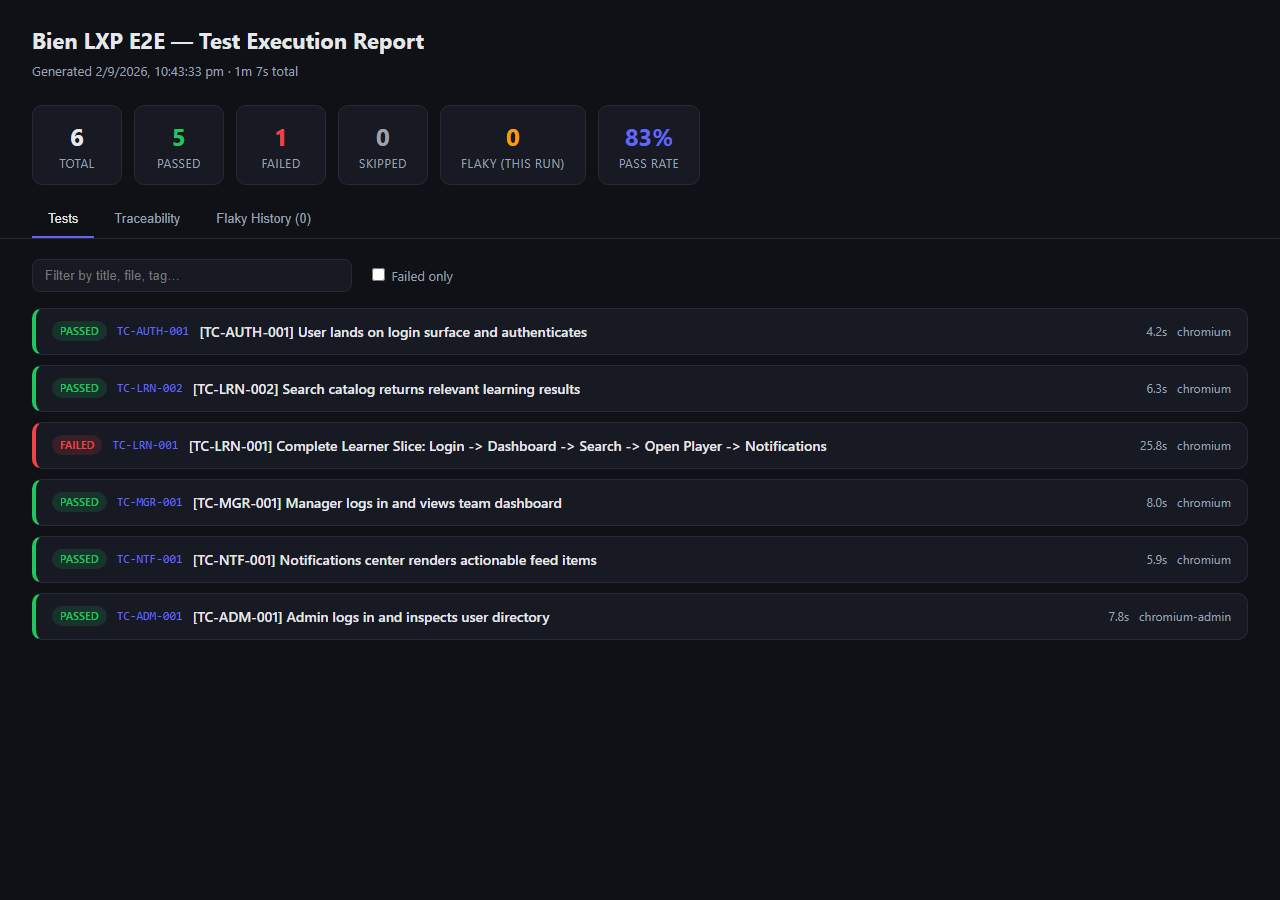
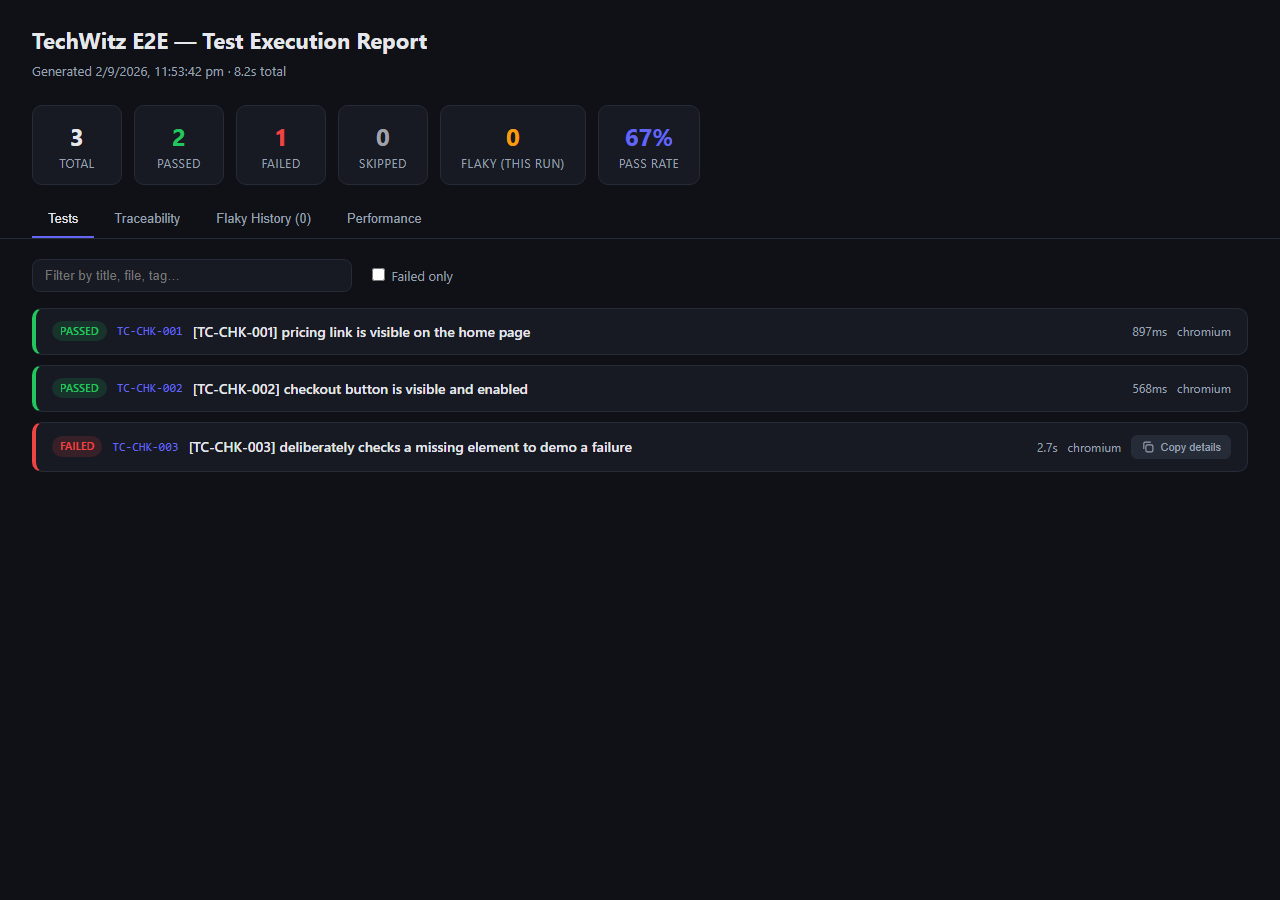
feat(config,ai-insights): cross-browser/device test matrix + decouple AI credentials
Add expandProjectsAcrossDevices() (src/config/DeviceMatrix.ts) - fans a small
set of base Playwright projects out across extra browser engines
(firefox/webkit) and/or named device profiles (mobile, tablet, etc.) via
opt-in options, so a plain `playwright test` run stays unchanged unless the
consumer explicitly asks for the wider matrix. Individual generated projects
are targetable directly with Playwright's own --project flag.

Remove all process.env reads for AI-vendor credentials (GEMINI_API_KEY,
OPENAI_API_KEY, ANTHROPIC_API_KEY, OLLAMA_HOST, OLLAMA_MODEL) from the
provider classes and AiFailureAnalyzer - the framework must not own
vendor-specific env var conventions. AiFailureAnalyzer now takes an explicit
AiProviderOptions (apiKey/ollamaHost/ollamaModel), and AiHtmlReporterOptions
gains aiApiKey/aiOllamaHost/aiOllamaModel so the consuming application
resolves its own credential (env var, secrets file, whatever it already
uses) and passes the value in.

README updated: new cross-browser/device-matrix section, corrected AI
credential wiring guidance, documentation for the page-URL/breadcrumb/
copy-details failed-card fields, and fresh screenshots generated against a
synthetic demo app (no real product branding, confirmed via grep - zero
Bien/LXP references anywhere in this repo's source, docs, or screenshots).

diff --git a/src/config/DeviceMatrix.ts b/src/config/DeviceMatrix.ts
@@ -1,0 +1,98 @@
+import { devices, type Project } from '@playwright/test';
+
+export type BrowserEngine = 'chromium' | 'firefox' | 'webkit';
+
+/** A project definition before device/browser expansion — same shape Playwright's own
+ * `projects` array entries take (`name` + `use`, plus whatever else you pass through, e.g.
+ * `grep`/`grepInvert`/`testMatch`/`dependencies`). */
+export interface BaseProjectDefinition extends Omit<Project, 'name' | 'use'> {
+  name: string;
+  use: Project['use'];
+}
+
+export interface DeviceMatrixOptions {
+  /**
+   * Extra browser engines to fan each base project out across, beyond whatever engine the base
+   * project itself already uses. E.g. `['firefox', 'webkit']` turns one `chromium` project into
+   * three: the original plus `<name>-firefox` and `<name>-webkit`.
+   */
+  browsers?: BrowserEngine[];
+  /**
+   * Extra named Playwright device descriptors (any key from `@playwright/test`'s `devices`
+   * export, e.g. `'iPhone 14'`, `'Pixel 7'`, `'iPad Pro 11'`) to fan each base project out
+   * across for responsive/mobile coverage. Unknown device names are skipped, not thrown on —
+   * a typo shouldn't take down the whole config.
+   */
+  devices?: string[];
+}
+
+const ENGINE_DEVICE_PROFILE: Record<BrowserEngine, string> = {
+  chromium: 'Desktop Chrome',
+  firefox: 'Desktop Firefox',
+  webkit: 'Desktop Safari',
+};
+
+/**
+ * Expands a small set of "real" projects (one per app/base-URL/tag-filter you actually need)
+ * into the full cross-browser + responsive/device matrix, without hand-duplicating every
+ * project definition. Nothing is expanded unless you actually pass `browsers`/`devices` — call
+ * it with an empty options object (or don't call it at all) and you get your base projects back
+ * unchanged, so wiring this in never silently multiplies a fast local run into a slow one.
+ *
+ * ```ts
+ * import { expandProjectsAcrossDevices } from '@open-test/playwright-core';
+ *
+ * const extraBrowsers = (process.env.E2E_BROWSERS ?? '').split(',').filter(Boolean) as BrowserEngine[];
+ * const extraDevices = (process.env.E2E_DEVICES ?? '').split(',').filter(Boolean);
+ *
+ * export default defineConfig({
+ *   projects: expandProjectsAcrossDevices(
+ *     [{ name: 'chromium', use: { ...devices['Desktop Chrome'], baseURL } }],
+ *     { browsers: extraBrowsers, devices: extraDevices },
+ *   ),
+ * });
+ * ```
+ *
+ * Run the default fast set with `playwright test`, the full cross-browser grid with
+ * `E2E_BROWSERS=firefox,webkit playwright test`, mobile/responsive coverage with
+ * `E2E_DEVICES="iPhone 14,Pixel 7" playwright test`, or one specific generated project with
+ * Playwright's own `--project=chromium-webkit` / `--project=chromium-iphone-14` flag.
+ */
+export function expandProjectsAcrossDevices(
+  baseProjects: BaseProjectDefinition[],
+  options: DeviceMatrixOptions = {},
+): Project[] {
+  const browsers = options.browsers ?? [];
+  const deviceNames = options.devices ?? [];
+  const expanded: Project[] = [];
+
+  for (const base of baseProjects) {
+    expanded.push(base as Project);
+
+    for (const engine of browsers) {
+      const profile = devices[ENGINE_DEVICE_PROFILE[engine]];
+      if (!profile) continue;
+      expanded.push({
+        ...base,
+        name: `${base.name}-${engine}`,
+        use: { ...base.use, ...profile },
+      });
+    }
+
+    for (const deviceName of deviceNames) {
+      const profile = devices[deviceName];
+      if (!profile) continue;
+      expanded.push({
+        ...base,
+        name: `${base.name}-${slugifyDeviceName(deviceName)}`,
+        use: { ...base.use, ...profile },
+      });
+    }
+  }
+
+  return expanded;
+}
+
+function slugifyDeviceName(value: string): string {
+  return value.toLowerCase().replace(/[^a-z0-9]+/g, '-').replace(/(^-|-$)/g, '');
+}

diff --git a/src/ai-insights/AiFailureAnalyzer.ts b/src/ai-insights/AiFailureAnalyzer.ts
@@ -9,6 +9,20 @@ import { PiiRedactor } from '../forensics/PiiRedactor.js';
 
 export type AiProviderName = 'gemini' | 'openai' | 'ollama' | 'claude' | 'none';
 
+export interface AiProviderOptions {
+  /**
+   * API key for the selected provider (gemini/openai/claude). The framework never reads any
+   * AI-vendor env var or secrets file itself — read your own `GEMINI_API_KEY` /
+   * `OPENAI_API_KEY` / `ANTHROPIC_API_KEY` (or whatever your application calls it, from an env
+   * var or a secrets file) in your own config and pass the resolved value here.
+   */
+  apiKey?: string;
+  /** Ollama server URL. Defaults to `http://127.0.0.1:11434` if not given. */
+  ollamaHost?: string;
+  /** Ollama model name. Defaults to `llama3` if not given. */
+  ollamaModel?: string;
+}
+
 export class AiFailureAnalyzer {
   private provider: ILlmProvider;
   readonly providerName: AiProviderName;
@@ -18,22 +32,24 @@ export class AiFailureAnalyzer {
    * Ollama, real local compute). The default here is `'none'`, which resolves to a
    * `NoOpProvider` that throws loudly if `analyze()` is ever actually called on it, rather
    * than silently making a paid call to whichever provider happened to be hardcoded as a
-   * "convenient" default.
+   * "convenient" default. Credentials (`options.apiKey`, etc.) are never read from process.env
+   * by this class — the consuming application resolves them from its own env var or secrets
+   * file and passes the resolved value in.
    */
-  constructor(providerName: AiProviderName = 'none') {
+  constructor(providerName: AiProviderName = 'none', options: AiProviderOptions = {}) {
     this.providerName = providerName;
     switch (providerName) {
       case 'gemini':
-        this.provider = new GeminiProvider();
+        this.provider = new GeminiProvider(options.apiKey);
         break;
       case 'openai':
-        this.provider = new OpenAiProvider();
+        this.provider = new OpenAiProvider(options.apiKey);
         break;
       case 'ollama':
-        this.provider = new OllamaProvider();
+        this.provider = new OllamaProvider(options.ollamaHost, options.ollamaModel);
         break;
       case 'claude':
-        this.provider = new ClaudeProvider();
+        this.provider = new ClaudeProvider(options.apiKey);
         break;
       case 'none':
       default:

diff --git a/src/reporting/AiHtmlReporter.ts b/src/reporting/AiHtmlReporter.ts
@@ -9,6 +9,7 @@ import type {
   FullResult,
 } from '@playwright/test/reporter';
 import { AiFailureAnalyzer, type AiProviderName } from '../ai-insights/AiFailureAnalyzer.js';
+import type { AiProviderOptions } from '../ai-insights/AiFailureAnalyzer.js';
 import type { AiAnalysisResult } from '../ai-insights/types.js';
 import type { DiagnosticTelemetry } from '../forensics/types.js';
 import { PiiRedactor } from '../forensics/PiiRedactor.js';
@@ -35,6 +36,20 @@ export interface AiHtmlReporterOptions {
    * never makes silent paid API calls).
    */
   aiProvider?: AiReportProvider;
+  /**
+   * API key for the selected `aiProvider` (gemini/openai/claude). This reporter never reads
+   * `GEMINI_API_KEY`/`OPENAI_API_KEY`/`ANTHROPIC_API_KEY` or any other AI-vendor env var (or
+   * secrets file) itself — resolve the credential from your own application's env var or
+   * secrets file and pass the value here. Not needed for `aiProvider: 'none'`/`'ollama'`.
+   */
+  aiApiKey?: string;
+  /** Ollama server URL, only used when `aiProvider: 'ollama'`. Defaults to
+   * `http://127.0.0.1:11434` if not given — read your own env var/config and pass it here if
+   * you need a different host. */
+  aiOllamaHost?: string;
+  /** Ollama model name, only used when `aiProvider: 'ollama'`. Defaults to `llama3` if not
+   * given. */
+  aiOllamaModel?: string;
   /**
    * Title shown in the report header. Defaults to `process.env.AI_REPORT_PROJECT_TITLE`, or
    * 'TechWitz E2E — Test Execution Report' if that's unset — the consuming project should set
@@ -159,7 +174,12 @@ export class AiHtmlReporter implements Reporter {
     // to 'none' above, and the analyzer is only ever constructed when a real provider was
     // explicitly named — no code path here can silently start making AI calls.
     if (aiProvider !== 'none') {
-      this.analyzer = new AiFailureAnalyzer(aiProvider);
+      const providerOptions: AiProviderOptions = {
+        apiKey: options.aiApiKey,
+        ollamaHost: options.aiOllamaHost,
+        ollamaModel: options.aiOllamaModel,
+      };
+      this.analyzer = new AiFailureAnalyzer(aiProvider, providerOptions);
     }
 
     FlakyQuarantineManager.configure(

diff --git a/src/ai-insights/providers/OllamaProvider.ts b/src/ai-insights/providers/OllamaProvider.ts
@@ -4,9 +4,16 @@ import { FailureClassifier } from '../FailureClassifier.js';
 import { BugTicketGenerator } from '../BugTicketGenerator.js';
 
 export class OllamaProvider implements ILlmProvider {
+  /**
+   * `hostUrl`/`model` must be passed in explicitly by the consuming application if you want
+   * anything other than these generic local defaults — this framework never reads an
+   * `OLLAMA_HOST`/`OLLAMA_MODEL` env var (or any config file) itself. Read your own env var in
+   * your own config and pass the value through `AiHtmlReporterOptions.aiOllamaHost`/
+   * `aiOllamaModel` / `AiFailureAnalyzer`'s constructor.
+   */
   constructor(
-    private readonly hostUrl = process.env.OLLAMA_HOST ?? 'http://127.0.0.1:11434',
-    private readonly model = process.env.OLLAMA_MODEL ?? 'llama3',
+    private readonly hostUrl = 'http://127.0.0.1:11434',
+    private readonly model = 'llama3',
   ) {}
 
   async analyzeFailure(

diff --git a/src/ai-insights/providers/ClaudeProvider.ts b/src/ai-insights/providers/ClaudeProvider.ts
@@ -4,7 +4,13 @@ import { FailureClassifier } from '../FailureClassifier.js';
 import { BugTicketGenerator } from '../BugTicketGenerator.js';
 
 export class ClaudeProvider implements ILlmProvider {
-  constructor(private readonly apiKey = process.env.ANTHROPIC_API_KEY) {}
+  /**
+   * `apiKey` must be passed in explicitly by the consuming application — this framework never
+   * reads any AI-vendor env var (or secrets file) itself. Read your own `ANTHROPIC_API_KEY` (or
+   * whatever your app calls it) in your own config and pass the value through
+   * `AiHtmlReporterOptions.aiApiKey` / `AiFailureAnalyzer`'s constructor.
+   */
+  constructor(private readonly apiKey?: string) {}
 
   async analyzeFailure(
     telemetry: DiagnosticTelemetry,

diff --git a/src/ai-insights/providers/GeminiProvider.ts b/src/ai-insights/providers/GeminiProvider.ts
@@ -4,7 +4,13 @@ import { FailureClassifier } from '../FailureClassifier.js';
 import { BugTicketGenerator } from '../BugTicketGenerator.js';
 
 export class GeminiProvider implements ILlmProvider {
-  constructor(private readonly apiKey = process.env.GEMINI_API_KEY) {}
+  /**
+   * `apiKey` must be passed in explicitly by the consuming application — this framework never
+   * reads any AI-vendor env var (or secrets file) itself. Read your own `GEMINI_API_KEY` (or
+   * whatever your app calls it) in your own config and pass the value through
+   * `AiHtmlReporterOptions.aiApiKey` / `AiFailureAnalyzer`'s constructor.
+   */
+  constructor(private readonly apiKey?: string) {}
 
   async analyzeFailure(
     telemetry: DiagnosticTelemetry,

diff --git a/src/ai-insights/providers/OpenAiProvider.ts b/src/ai-insights/providers/OpenAiProvider.ts
@@ -4,7 +4,13 @@ import { FailureClassifier } from '../FailureClassifier.js';
 import { BugTicketGenerator } from '../BugTicketGenerator.js';
 
 export class OpenAiProvider implements ILlmProvider {
-  constructor(private readonly apiKey = process.env.OPENAI_API_KEY) {}
+  /**
+   * `apiKey` must be passed in explicitly by the consuming application — this framework never
+   * reads any AI-vendor env var (or secrets file) itself. Read your own `OPENAI_API_KEY` (or
+   * whatever your app calls it) in your own config and pass the value through
+   * `AiHtmlReporterOptions.aiApiKey` / `AiFailureAnalyzer`'s constructor.
+   */
+  constructor(private readonly apiKey?: string) {}
 
   async analyzeFailure(
     telemetry: DiagnosticTelemetry,

diff --git a/src/config/index.ts b/src/config/index.ts
@@ -1,2 +1,3 @@
 export { EnvConfig, ConfigLoader } from './ConfigLoader.js';
 export * from './types.js';
+export * from './DeviceMatrix.js';

diff --git a/README.md b/README.md
@@ -77,9 +77,32 @@ opt-in, using your own LLM API key — adds a root-cause summary and suggested f
 ![Dashboard: pass/fail counts, pass rate, and a filterable/searchable test list](./docs/screenshots/dashboard.png)
 
 Click any test to expand it in place — real screenshot thumbnail, embedded video player, a
-downloadable trace, and the full (ANSI-stripped, PII-redacted) error and stack trace:
+downloadable trace, the full (ANSI-stripped, PII-redacted) error and stack trace, the **page URL
+at the moment of failure**, and a color-coded **breadcrumb trail** (console errors/warnings,
+uncaught page errors, failed requests, and 4xx/5xx responses in the run-up to the failure) — plus
+a one-click **Copy details** button that puts a plain-text summary of all of it on your clipboard,
+ready to paste into a bug report or a chat message:
 
-![Expanded failed-test card with screenshot, video player, and error detail](./docs/screenshots/failed-test-detail.png)
+![Expanded failed-test card with screenshot, video player, page URL, breadcrumb trail, and a copy-details button](./docs/screenshots/failed-test-detail.png)
+
+The page URL and breadcrumb trail come from `captureFailureDiagnostics()` — wire it in as an
+auto-fixture and it silently attaches this data to any non-passing test, with nothing to opt into
+per test:
+
+```ts
+// fixtures.ts
+import { test as base } from '@playwright/test';
+import { captureFailureDiagnostics } from '@open-test/playwright-core';
+
+export const test = base.extend<{ _diagnosticsCapture: void }>({
+  _diagnosticsCapture: [
+    async ({ page }, use, testInfo) => {
+      await captureFailureDiagnostics(page, testInfo, async () => { await use(); });
+    },
+    { auto: true },
+  ],
+});
+```
 
 A **Traceability** tab turns the `[TC-XXX-001]` convention already used throughout your specs
 into a live matrix — test ID, title, source file, tags, and pass/fail status, all in one sortable
@@ -177,10 +200,26 @@ reporter: [['list'], ['./reporters/aiHtmlReporter.ts', { aiProvider: process.env
   to set one. No API call happens unless `aiProvider` is explicitly set (or the
   `AI_REPORT_PROVIDER` env var is). A report with `aiProvider` unset is still the full dashboard
   above — traceability, thumbnails, video, flaky history, performance — just without the AI panel.
-- **Bring your own key.** `AiFailureAnalyzer` already supports Gemini, OpenAI, Claude, and a fully
-  local Ollama provider (zero external calls, zero cost) — see [`ai-insights/`](./src/ai-insights).
-  Configure whichever one your team already has access to via that provider's own env vars (see
-  each provider file for its exact variable name).
+- **Bring your own key — and your own env var name.** `AiFailureAnalyzer` already supports Gemini,
+  OpenAI, Claude, and a fully local Ollama provider (zero external calls, zero cost) — see
+  [`ai-insights/`](./src/ai-insights). The framework itself never reads `GEMINI_API_KEY`/
+  `OPENAI_API_KEY`/`ANTHROPIC_API_KEY`/`OLLAMA_HOST` or any other AI-vendor env var (or secrets
+  file) — that's your application's decision, not the framework's. Resolve the credential however
+  your app already does (an env var, a secrets manager, a `.env` file) and pass the resolved value
+  through `aiApiKey` (and `aiOllamaHost`/`aiOllamaModel` for Ollama):
+  ```ts
+  [
+    './reporters/aiHtmlReporter.ts',
+    {
+      aiProvider: process.env.AI_REPORT_PROVIDER,
+      aiApiKey:
+        process.env.AI_REPORT_PROVIDER === 'claude' ? process.env.ANTHROPIC_API_KEY :
+        process.env.AI_REPORT_PROVIDER === 'gemini' ? process.env.GEMINI_API_KEY :
+        process.env.AI_REPORT_PROVIDER === 'openai' ? process.env.OPENAI_API_KEY :
+        undefined,
+    },
+  ]
+  ```
 - **Redacted before it leaves the process.** Console logs, error messages, and stack traces are
   passed through `PiiRedactor` before being sent to any provider — see
   [`forensics/PiiRedactor.ts`](./src/forensics/PiiRedactor.ts).
@@ -216,6 +255,43 @@ export default defineConfig({
 Keep your app's own real defaults (base URL, API URL, persona credentials, etc.) in one small
 config module rather than scattering `process.env.X ?? 'hardcoded-value'` across specs —
 `ConfigLoader` (below) gives you an env-var-driven starting point.
+
+## Cross-browser & responsive/mobile testing
+
+`expandProjectsAcrossDevices()` turns a small set of "real" Playwright projects (one per app,
+base URL, or tag filter you actually need) into the full cross-browser + device matrix, without
+hand-duplicating every project definition — and without slowing down your default local run,
+since nothing is expanded unless you ask for it:
+
+```ts
+// playwright.config.ts
+import { defineConfig, devices } from '@playwright/test';
+import { expandProjectsAcrossDevices, type BrowserEngine } from '@open-test/playwright-core';
+
+const extraBrowsers = (process.env.E2E_BROWSERS ?? '').split(',').filter(Boolean) as BrowserEngine[];
+const extraDevices = (process.env.E2E_DEVICES ?? '').split(',').filter(Boolean);
+
+export default defineConfig({
+  projects: expandProjectsAcrossDevices(
+    [{ name: 'chromium', use: { ...devices['Desktop Chrome'], baseURL: process.env.BASE_URL } }],
+    { browsers: extraBrowsers, devices: extraDevices },
+  ),
+});
+```
+
+- **`playwright test`** — just the base project(s) you defined, exactly like today. Nothing
+  changes unless you set an env var.
+- **`E2E_BROWSERS=firefox,webkit playwright test`** — every base project also runs on Firefox and
+  WebKit (`chromium-firefox`, `chromium-webkit`, …).
+- **`E2E_DEVICES="iPhone 14,Pixel 7" playwright test`** — every base project also runs against
+  those emulated devices (`chromium-iphone-14`, `chromium-pixel-7`, …) — any device name from
+  Playwright's own `devices` export works.
+- **`playwright test --project=chromium-webkit`** (or any other generated project name) — target
+  one specific browser/device directly, using Playwright's own `--project` flag.
+
+Mix both env vars to get the full grid in one run. A base project's own `grep`/`grepInvert`/
+`testMatch`/etc. carry through to every generated variant, so per-app tag filtering (like the
+admin-vs-learner split in this repo's own example suite) keeps working across the whole matrix.
 
 ## Building your own test suite on top
 
@@ -391,10 +467,10 @@ pnpm generate:living-docs
 |---|---|
 | `base/` | `BasePage`, `BaseComponent`, `BaseTask`, `BaseApiClient`, `BaseFactory` — the abstract classes everything else builds on |
 | `auth/` | Generic session seeding (`SessionManager`, `StorageStateProvider`, `JwtHelper`) — no product-specific storage keys or state shape |
-| `config/` | `ConfigLoader`/`EnvConfig` — env-var-driven configuration with generic defaults |
+| `config/` | `ConfigLoader`/`EnvConfig` — env-var-driven configuration with generic defaults; `expandProjectsAcrossDevices` for opt-in cross-browser/responsive-device project matrices |
 | `data-driven/` | CSV/Excel/JSON data providers + `zod`-validated `withData()` test wrapper |
-| `forensics/` | `HarRecorder`, `DiagnosticBundle`, `TelemetryCollector`, `PiiRedactor` — failure artifact capture with PII redaction before anything leaves the machine |
-| `ai-insights/` | Pluggable AI root-cause analysis (`AiFailureAnalyzer`) with Gemini/OpenAI/Claude/local-Ollama provider adapters, defaulting to a real no-op provider — analysis is opt-in, never automatic |
+| `forensics/` | `HarRecorder`, `DiagnosticBundle`, `TelemetryCollector`, `PiiRedactor`, `captureFailureDiagnostics` (page URL + console/network breadcrumb trail on failure) — failure artifact capture with PII redaction before anything leaves the machine |
+| `ai-insights/` | Pluggable AI root-cause analysis (`AiFailureAnalyzer`) with Gemini/OpenAI/Claude/local-Ollama provider adapters, defaulting to a real no-op provider — analysis is opt-in, never automatic, and the framework never reads an AI-vendor env var itself; you pass the resolved credential in |
 | `bdd-living-docs/` | `Given`/`When`/`Then` wrappers + a CLI that generates a living Markdown spec catalog from your specs |
 | `performance/` | Core Web Vitals collection, network timing, a performance-budget guard, and a k6 load-script generator |
 | `accessibility/` | Axe-core-powered WCAG 2.1 AA auditor |
